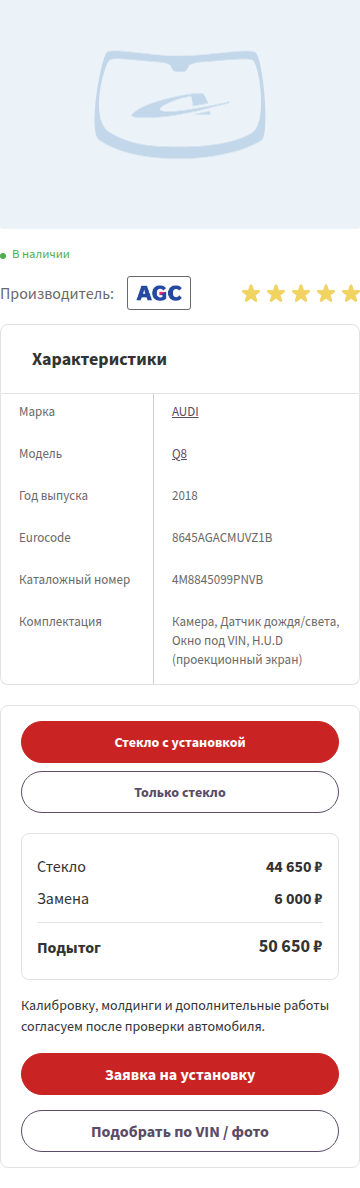
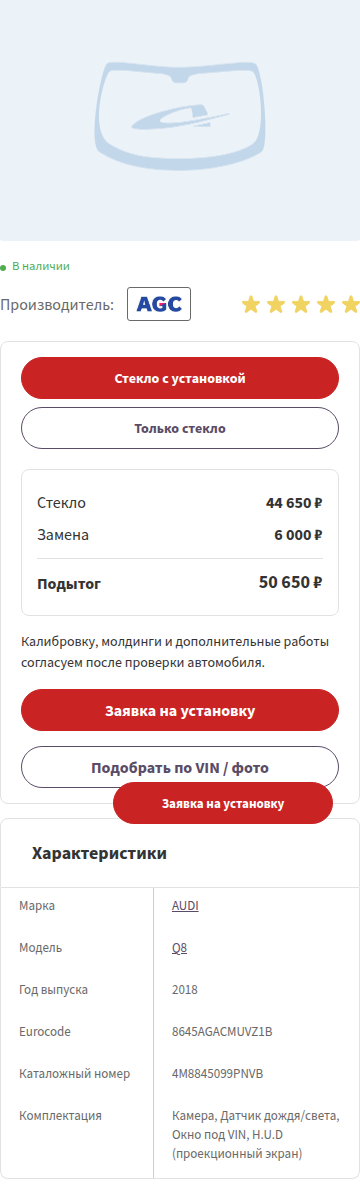
Move product price choices above characteristics

Changed region(s): [[0.0, 0.1869, 1.0, 0.9966], [0.2444, 0.0311, 0.7333, 0.1557], [0.9167, 0.7163, 0.9472, 0.7475]]

diff --git a/product/audi-q8-5d-suv-2018-steklo-vetrovoe-datchik-dozhdia-kamera-hud-vin-3/index.html b/product/audi-q8-5d-suv-2018-steklo-vetrovoe-datchik-dozhdia-kamera-hud-vin-3/index.html
@@ -1275,7 +1275,7 @@
 <!-- конец вывода среднего рейтинга -->
 </div>
 </div>
-<div class="product-content-info-attrs">
+<div class="product-content-info-prices" itemprop="offers" itemscope="" itemtype="https://schema.org/Offer"><meta content="RUB" itemprop="priceCurrency"/><link href="https://schema.org/InStock" itemprop="availability"/><meta content="44650" itemprop="price"/><div class="cr-root cr-native-price" data-kind="product" data-root="../../"><section aria-label="Стоимость и способ покупки" class="cr-buy"><div aria-label="Способ покупки" class="cr-mode" role="group"><button aria-pressed="true" class="cr-btn a-btn a-btn-red2" data-mode="install" type="button">Стекло с установкой</button><button aria-pressed="false" class="cr-btn cr-outline a-btn a-btn-outline" data-mode="glass" type="button">Только стекло</button></div><div class="cr-estimate" id="cr-product-estimate"><dl><div><dt>Стекло</dt><dd>44 650 ₽</dd></div><div><dt>Замена</dt><dd>6 000 ₽</dd></div><div class="cr-total"><dt>Подытог</dt><dd>50 650 ₽</dd></div></dl></div><p class="cr-small">Калибровку, молдинги и дополнительные работы согласуем после проверки автомобиля.</p><div class="cr-actions"><button class="cr-btn a-btn a-btn-red2" data-order="92644" type="button">Заявка на установку</button><button class="cr-btn cr-outline a-btn a-btn-outline" data-help="" type="button">Подобрать по VIN / фото</button></div></section><dialog aria-labelledby="cr-order-title" class="cr-dialog" id="cr-order-dialog"><div class="cr-dialog-head"><h2 class="modal-typical__header" id="cr-order-title">Заявка на установку</h2><button aria-label="Закрыть форму" class="cr-close" data-close="" type="button">×</button></div><form id="cr-order-form"><div class="cr-summary" id="cr-order-summary"></div><p class="cr-demo">Офлайн-копия: данные не отправляются. Здесь можно проверить форму и состав обращения.</p><div class="cr-two-fields"><label>Телефон для ответа<input autocomplete="tel" class="form-group__input" inputmode="tel" maxlength="24" name="phone" placeholder="+7 (___) ___-__-__" required="" type="tel"/></label><label>Имя — необязательно<input autocomplete="given-name" class="form-group__input" maxlength="80" name="customerName"/></label></div><label>Автомобиль и нужное стекло<input class="form-group__input" maxlength="180" name="car" placeholder="Например, Audi Q8 2020, лобовое"/></label><label>VIN — необязательно<input aria-describedby="cr-vin-hint" autocomplete="off" class="form-group__input" maxlength="17" name="vin" placeholder="17 символов VIN"/></label><p class="cr-small cr-muted" id="cr-vin-hint">VIN указан в документах автомобиля. Если VIN нет под рукой, приложите фото.</p><label class="cr-upload">Фото маркировки или зоны камеры<input accept="image/jpeg,image/png,image/webp" aria-describedby="cr-photo-hint" multiple="" name="photos" type="file"/></label><p class="cr-small cr-muted" id="cr-photo-hint">До 3 фото JPG, PNG или WebP, каждое до 10 МБ. Снимите маркировку в углу и крепление камеры из салона. Файлы остаются в этой вкладке.</p><div class="cr-photo-preview" id="cr-photo-preview"></div><label>Удобный центр<select name="center"><option value="">Выберу с менеджером</option><option value="val">Ярославль · Городской Вал, 2</option><option value="gromova">Ярославль · Громова, 1Ж</option></select></label><label class="cr-check"><input name="consent" required="" type="checkbox"/> <span>Согласен(на) на обработку персональных данных. <a href="https://autosteklo.pro/personal-data/" rel="noopener" target="_blank">Условия онлайн</a></span></label><p class="cr-form-status" id="cr-form-status" role="status" tabindex="-1"></p><button class="cr-btn cr-full a-btn a-btn-red2" id="cr-form-submit" type="submit">Проверить заявку</button><p class="cr-small cr-muted">Для реального обращения: <a href="tel:+78007073772">8 (800) 707-37-72</a>. Время установки согласуют отдельно.</p></form></dialog><dialog aria-labelledby="cr-compare-title" class="cr-dialog cr-wide" id="cr-compare-dialog"><div class="cr-dialog-head"><h2 class="modal-typical__header" id="cr-compare-title">Сравнение стёкол</h2><button aria-label="Закрыть сравнение" class="cr-close" data-close="" type="button">×</button></div><p>Сравните опции и стоимость. Применимость и срок нужно подтвердить по VIN.</p><div aria-label="Таблица сравнения стёкол" class="cr-table-scroll" id="cr-compare-content" role="region" tabindex="0"></div></dialog><div class="cr-bottom" hidden="" id="cr-bottom"></div><div class="cr-toast" hidden="" id="cr-toast" role="status"></div></div></div><div class="product-content-info-attrs">
 <div class="product-content-info-attrs-header">
                         Характеристики
                     </div>
@@ -1304,7 +1304,6 @@
 <div class="product-content-info-attrs-row__value">Камера, Датчик дождя/света, Окно под VIN, H.U.D (проекционный экран)</div>
 </div>
 </div>
-<div class="product-content-info-prices" itemprop="offers" itemscope="" itemtype="https://schema.org/Offer"><meta content="RUB" itemprop="priceCurrency"/><link href="https://schema.org/InStock" itemprop="availability"/><meta content="44650" itemprop="price"/><div class="cr-root cr-native-price" data-kind="product" data-root="../../"><section aria-label="Стоимость и способ покупки" class="cr-buy"><div aria-label="Способ покупки" class="cr-mode" role="group"><button aria-pressed="true" class="cr-btn a-btn a-btn-red2" data-mode="install" type="button">Стекло с установкой</button><button aria-pressed="false" class="cr-btn cr-outline a-btn a-btn-outline" data-mode="glass" type="button">Только стекло</button></div><div class="cr-estimate" id="cr-product-estimate"><dl><div><dt>Стекло</dt><dd>44 650 ₽</dd></div><div><dt>Замена</dt><dd>6 000 ₽</dd></div><div class="cr-total"><dt>Подытог</dt><dd>50 650 ₽</dd></div></dl></div><p class="cr-small">Калибровку, молдинги и дополнительные работы согласуем после проверки автомобиля.</p><div class="cr-actions"><button class="cr-btn a-btn a-btn-red2" data-order="92644" type="button">Заявка на установку</button><button class="cr-btn cr-outline a-btn a-btn-outline" data-help="" type="button">Подобрать по VIN / фото</button></div></section><dialog aria-labelledby="cr-order-title" class="cr-dialog" id="cr-order-dialog"><div class="cr-dialog-head"><h2 class="modal-typical__header" id="cr-order-title">Заявка на установку</h2><button aria-label="Закрыть форму" class="cr-close" data-close="" type="button">×</button></div><form id="cr-order-form"><div class="cr-summary" id="cr-order-summary"></div><p class="cr-demo">Офлайн-копия: данные не отправляются. Здесь можно проверить форму и состав обращения.</p><div class="cr-two-fields"><label>Телефон для ответа<input autocomplete="tel" class="form-group__input" inputmode="tel" maxlength="24" name="phone" placeholder="+7 (___) ___-__-__" required="" type="tel"/></label><label>Имя — необязательно<input autocomplete="given-name" class="form-group__input" maxlength="80" name="customerName"/></label></div><label>Автомобиль и нужное стекло<input class="form-group__input" maxlength="180" name="car" placeholder="Например, Audi Q8 2020, лобовое"/></label><label>VIN — необязательно<input aria-describedby="cr-vin-hint" autocomplete="off" class="form-group__input" maxlength="17" name="vin" placeholder="17 символов VIN"/></label><p class="cr-small cr-muted" id="cr-vin-hint">VIN указан в документах автомобиля. Если VIN нет под рукой, приложите фото.</p><label class="cr-upload">Фото маркировки или зоны камеры<input accept="image/jpeg,image/png,image/webp" aria-describedby="cr-photo-hint" multiple="" name="photos" type="file"/></label><p class="cr-small cr-muted" id="cr-photo-hint">До 3 фото JPG, PNG или WebP, каждое до 10 МБ. Снимите маркировку в углу и крепление камеры из салона. Файлы остаются в этой вкладке.</p><div class="cr-photo-preview" id="cr-photo-preview"></div><label>Удобный центр<select name="center"><option value="">Выберу с менеджером</option><option value="val">Ярославль · Городской Вал, 2</option><option value="gromova">Ярославль · Громова, 1Ж</option></select></label><label class="cr-check"><input name="consent" required="" type="checkbox"/> <span>Согласен(на) на обработку персональных данных. <a href="https://autosteklo.pro/personal-data/" rel="noopener" target="_blank">Условия онлайн</a></span></label><p class="cr-form-status" id="cr-form-status" role="status" tabindex="-1"></p><button class="cr-btn cr-full a-btn a-btn-red2" id="cr-form-submit" type="submit">Проверить заявку</button><p class="cr-small cr-muted">Для реального обращения: <a href="tel:+78007073772">8 (800) 707-37-72</a>. Время установки согласуют отдельно.</p></form></dialog><dialog aria-labelledby="cr-compare-title" class="cr-dialog cr-wide" id="cr-compare-dialog"><div class="cr-dialog-head"><h2 class="modal-typical__header" id="cr-compare-title">Сравнение стёкол</h2><button aria-label="Закрыть сравнение" class="cr-close" data-close="" type="button">×</button></div><p>Сравните опции и стоимость. Применимость и срок нужно подтвердить по VIN.</p><div aria-label="Таблица сравнения стёкол" class="cr-table-scroll" id="cr-compare-content" role="region" tabindex="0"></div></dialog><div class="cr-bottom" hidden="" id="cr-bottom"></div><div class="cr-toast" hidden="" id="cr-toast" role="status"></div></div></div>
 </div>
 </div>
 <div class="product-similar">

diff --git a/README.md b/README.md
@@ -11,7 +11,7 @@
 - Шесть исходных флажков опций. Неуказанная опция считается неподтверждённой; её отсутствие не подменяется отсутствием данных.
 - Цена стекла, услуга замены и подытог; переключение между установкой и покупкой только стекла. Неизвестная цена не превращается в ноль.
 - Исходные похожие товары от других производителей, преимущества, дополнительные услуги, отзывы и адреса центров на странице AGC.
-- Полное исходное название и таблица характеристик товара. В исходном месте цены сохранён выбор стекла с установкой или без неё; на телефоне доступна нижняя панель цены.
+- Полное исходное название и таблица характеристик товара. Перед характеристиками размещён выбор стекла с установкой или без неё; на телефоне доступна нижняя панель цены.
 - Подбор по VIN или фото, форма с выбранным товаром, способом покупки, стоимостью и центром. Проверяются телефон, VIN и формат/размер фото.
 - Выбор одного из двух центров Ярославля, контакты и маршруты, преимущества из карточки товара, этапы установки и FAQ.
 - Выбранные фильтры и сортировка сохраняются при переходах; предусмотрен пустой результат. Доступны управление с клавиатуры и закрытие диалогов по Escape.
@@ -38,7 +38,7 @@
 
 На странице поколения убраны блок «Где установить стекло» и счётчик «Показано … из …». Кнопка «Показать еще» использует исходные классы и оформление. Добавлены штатная форма заявки и адреса центров и мобильного сервиса. После адресов размещены три исходных текста с фотографиями, затем плитки «Другие типы стекол на Audi Q8», «Другие модели Audi Q8» и «Стекла для других автомобилей». Шаблоны — `tools/generation_native_content.html.txt` и `tools/generation_native_links.html.txt`; несохранённые категории ведут на основной сайт.
 
-Карточка AGC восстановлена по исходной странице: хлебные крошки, возврат в каталог, полное название и Eurocode, изображение, наличие, производитель и рейтинг, таблица характеристик, три похожих товара, преимущества, восемь дополнительных услуг, форма и пять сохранённых отзывов, адреса центров и исходный текст. Шаблон — `tools/product_native_page.html.txt`. В исходном месте цены сохранён новый блок «Стекло с установкой / Только стекло», расчёт и локальная заявка; блоки каталога и текст страницы находятся вне контейнера доработок и используют штатные стили. `assets/product-native.js` подключает кнопки похожих товаров к локальной форме и не отправляет отзывы или запросы на сервер. Карусель услуг, выбор услуги и оценка в форме отзыва используют исходный код сайта.
+Карточка AGC восстановлена по исходной странице: хлебные крошки, возврат в каталог, полное название и Eurocode, изображение, наличие, производитель и рейтинг, таблица характеристик, три похожих товара, преимущества, восемь дополнительных услуг, форма и пять сохранённых отзывов, адреса центров и исходный текст. Шаблон — `tools/product_native_page.html.txt`. Перед характеристиками размещён новый блок «Стекло с установкой / Только стекло», расчёт и локальная заявка; блоки каталога и текст страницы находятся вне контейнера доработок и используют штатные стили. `assets/product-native.js` подключает кнопки похожих товаров к локальной форме и не отправляет отзывы или запросы на сервер. Карусель услуг, выбор услуги и оценка в форме отзыва используют исходный код сайта.
 
 На четырёх страницах каталога вместо прежних карточек гарантий размещены исходные преимущества из карточки товара: «Экономия времени», «Заботимся о вашей безопасности», «Расширенная гарантия». Тексты, значки, рамки и шрифты повторяют исходный блок; на широком экране карточки расположены в три колонки, на небольшом — друг под другом. Шаблон — `tools/catalog_native_benefits.html.txt`, стили — `assets/catalog-benefits.css`. Подпись «Офлайн-копия · каталог от 19.11.2026…» удалена со всех новых страниц.
 
